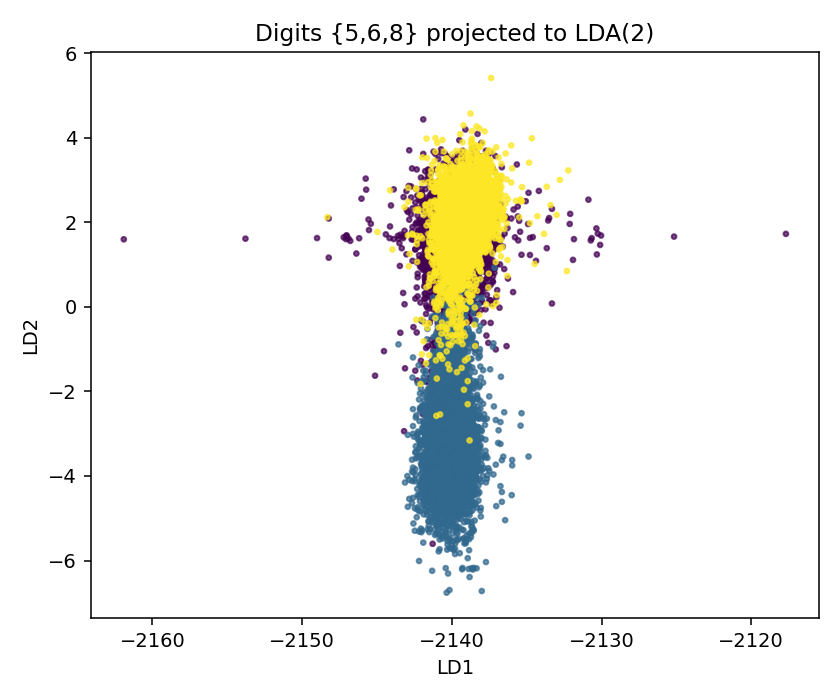
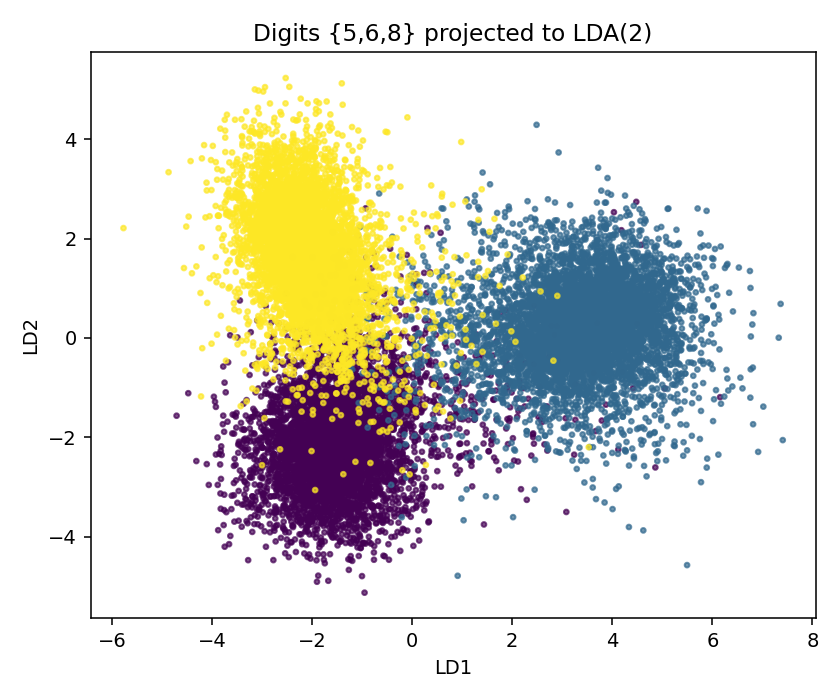
Update Fixed so it only takes three classes.

diff --git a/Machine Learning Exercise 3/Exercises1_1.py b/Machine Learning Exercise 3/Exercises1_1.py
@@ -1,0 +1,264 @@
+# Exercises.py
+# End-to-end MNIST dimensionality-reduction + classification
+# Works with the classic UFLDL "mnist_all.mat" that contains train0..train9 and test0..test9
+
+import os
+import numpy as np
+from scipy.io import loadmat
+from sklearn.decomposition import PCA
+from sklearn.preprocessing import StandardScaler
+from sklearn.neighbors import KNeighborsClassifier
+from sklearn.linear_model import LogisticRegression
+from sklearn.metrics import accuracy_score, confusion_matrix, classification_report
+from sklearn.discriminant_analysis import LinearDiscriminantAnalysis
+import matplotlib.pyplot as plt
+import warnings
+
+warnings.filterwarnings("ignore", category=FutureWarning, module="sklearn")
+
+# =========================
+# 0) CONFIG
+# =========================
+DATA_DIR = r"C:\Users\walat\PycharmProjects\PythonProject\Machine Learning Exercise 3\Data\mnist_all"
+MAT_FILE = "mnist_all.mat"  # expected inside DATA_DIR
+SEED = 42
+PCA_VAR_TARGETS = [0.90, 0.95, 0.99]  # report how many PCs needed for each
+PCA_FOR_VIS = 2                       # for quick scatter visualization
+THREE_CLASSES = {5, 6, 8}             # for the LDA vs PCA(2) task
+
+rng = np.random.default_rng(SEED)
+
+# =========================
+# 1) LOAD DATA
+# =========================
+def load_mnist_all_mat(path_dir, mat_file="mnist_all.mat"):
+    mat = loadmat(os.path.join(path_dir, mat_file))
+    # mat keys: train0..train9, test0..test9 (each: N x 784 uint8)
+    Xtr_list, ytr_list, Xte_list, yte_list = [], [], [], []
+    for d in range(10):
+        Xtr = mat[f"train{d}"]
+        Xte = mat[f"test{d}"]
+        ytr = np.full((Xtr.shape[0],), d, dtype=int)
+        yte = np.full((Xte.shape[0],), d, dtype=int)
+        Xtr_list.append(Xtr); ytr_list.append(ytr)
+        Xte_list.append(Xte); yte_list.append(yte)
+    Xtr = np.vstack(Xtr_list).astype(np.float32) / 255.0
+    ytr = np.hstack(ytr_list).astype(int)
+    Xte = np.vstack(Xte_list).astype(np.float32) / 255.0
+    yte = np.hstack(yte_list).astype(int)
+    return Xtr, ytr, Xte, yte
+
+print("Loading MNIST (mnist_all.mat)...")
+Xtr, ytr, Xte, yte = load_mnist_all_mat(DATA_DIR, MAT_FILE)
+n_tr, d = Xtr.shape
+n_te = Xte.shape[0]
+print(f"Train: {Xtr.shape}, Test: {Xte.shape}")
+
+# =========================
+# 2) STANDARDIZE FEATURES (fit on train)
+# =========================
+scaler = StandardScaler(with_mean=True, with_std=True)
+Xtr_std = scaler.fit_transform(Xtr)
+Xte_std = scaler.transform(Xte)
+
+# =========================
+# 3) PCA FIT (on TRAIN only)
+# =========================
+print("\nFitting PCA on standardized train data...")
+pca_full = PCA(svd_solver="full", random_state=SEED)
+pca_full.fit(Xtr_std)
+
+explained = pca_full.explained_variance_ratio_
+cum_explained = np.cumsum(explained)
+
+def n_components_for_variance(target):
+    return int(np.searchsorted(cum_explained, target) + 1)
+
+print("Explained variance targets and component counts:")
+for v in PCA_VAR_TARGETS:
+    print(f"  {int(v*100)}% → {n_components_for_variance(v)} components")
+
+# Save scree/cumulative plots
+plt.figure()
+plt.plot(np.arange(1, len(explained)+1), explained)
+plt.xlabel("Component index")
+plt.ylabel("Explained variance ratio")
+plt.title("PCA Scree Plot (MNIST)")
+plt.tight_layout()
+plt.savefig("pca_scree.png", dpi=120)
+
+plt.figure()
+plt.plot(np.arange(1, len(cum_explained)+1), cum_explained)
+plt.axhline(0.90, ls="--"); plt.axhline(0.95, ls="--"); plt.axhline(0.99, ls="--")
+plt.xlabel("Components")
+plt.ylabel("Cumulative explained variance")
+plt.title("PCA Cumulative Explained Variance")
+plt.tight_layout()
+plt.savefig("pca_cumulative.png", dpi=120)
+print("Saved plots: pca_scree.png, pca_cumulative.png")
+
+# =========================
+# 4) PROJECT DATA TO PCA SPACES
+#    (a) 2D for visualization
+#    (b) K components to hit 95% variance
+# =========================
+pca_vis = PCA(n_components=PCA_FOR_VIS, svd_solver="full", random_state=SEED)
+Xtr_vis = pca_vis.fit_transform(Xtr_std)
+Xte_vis = pca_vis.transform(Xte_std)
+
+target_var = 0.95
+K = n_components_for_variance(target_var)
+pca_k = PCA(n_components=K, svd_solver="full", random_state=SEED)
+Xtr_pca = pca_k.fit_transform(Xtr_std)
+Xte_pca = pca_k.transform(Xte_std)
+print(f"\nUsing K={K} PCs to retain ~{int(target_var*100)}% variance")
+
+# Optional: tiny scatter of a subset (2D PCA) for sanity
+idx = rng.choice(len(ytr), size=4000, replace=False)
+plt.figure(figsize=(6,5))
+plt.scatter(Xtr_vis[idx, 0], Xtr_vis[idx, 1], c=ytr[idx], s=5, alpha=0.6)
+plt.title("Train set projected to first 2 PCs")
+plt.xlabel("PC1"); plt.ylabel("PC2")
+plt.tight_layout()
+plt.savefig("pca_train_scatter_2d.png", dpi=140)
+print("Saved plot: pca_train_scatter_2d.png")
+
+# =========================
+# 5) CLASSIFIERS IN REDUCED SPACE (10 classes)
+# =========================
+def run_knn(train_X, train_y, test_X, test_y, k=3):
+    knn = KNeighborsClassifier(n_neighbors=k, weights="distance", n_jobs=-1)
+    knn.fit(train_X, train_y)
+    yhat = knn.predict(test_X)
+    acc = accuracy_score(test_y, yhat)
+    return acc, yhat
+
+def run_logreg(train_X, train_y, test_X, test_y, C=1.0):
+    clf = LogisticRegression(
+        penalty="l2",
+        C=C,
+        solver="lbfgs",
+        max_iter=1000,
+        tol=1e-3,
+        random_state=SEED,
+        n_jobs=-1
+    )
+    clf.fit(train_X, train_y)
+    yhat = clf.predict(test_X)
+    acc = accuracy_score(test_y, yhat)
+    return acc, yhat
+
+print("\n=== Classification in PCA(K) space (10 classes) ===")
+acc_knn_pca, yhat_knn_pca = run_knn(Xtr_pca, ytr, Xte_pca, yte, k=3)
+print(f"k-NN (k=3) on PCA({K}) → accuracy: {acc_knn_pca*100:.2f}%")
+
+acc_lr_pca, yhat_lr_pca = run_logreg(Xtr_pca, ytr, Xte_pca, yte, C=1.0)
+print(f"Logistic Regression on PCA({K}) → accuracy: {acc_lr_pca*100:.2f}%")
+
+print("\n=== Baseline (original standardized space, 10 classes) ===")
+acc_knn_base, _ = run_knn(Xtr_std, ytr, Xte_std, yte, k=3)
+print(f"k-NN (k=3) on original → accuracy: {acc_knn_base*100:.2f}%")
+acc_lr_base, _ = run_logreg(Xtr_std, ytr, Xte_std, yte, C=1.0)
+print(f"Logistic Regression on original → accuracy: {acc_lr_base*100:.2f}%")
+
+# Confusion matrix and report for the best PCA model (10 classes)
+best_name, best_yhat = ("kNN-PCA", yhat_knn_pca) if acc_knn_pca >= acc_lr_pca else ("LogReg-PCA", yhat_lr_pca)
+cm = confusion_matrix(yte, best_yhat)
+print(f"\nBest PCA-space model (10 classes): {best_name}")
+print("Confusion matrix (rows=true, cols=pred):")
+print(cm)
+print("\nClassification report:")
+print(classification_report(yte, best_yhat, digits=4))
+
+# =========================
+# 6) THREE-CLASS TASK (5, 6, 8): LDA(2) vs PCA(2)
+#     (1) Reduce to 2D using LDA and classify
+#     (2) Redo with PCA(2) and compare
+#     IMPORTANT: fit scaler on the 5/6/8 subset only
+# =========================
+print("\n=== Three-class experiment: digits {5,6,8} ===")
+
+# 1) Subset RAW data first (not the already-standardized arrays)
+mask_tr_raw = np.isin(ytr, [5, 6, 8])
+mask_te_raw = np.isin(yte, [5, 6, 8])
+
+Xtr_568_raw, ytr_568 = Xtr[mask_tr_raw], ytr[mask_tr_raw]
+Xte_568_raw, yte_568 = Xte[mask_te_raw], yte[mask_te_raw]
+
+# 2) Fit a NEW scaler on the subset train only
+scaler_568 = StandardScaler(with_mean=True, with_std=True)
+Xtr_568 = scaler_568.fit_transform(Xtr_568_raw)
+Xte_568 = scaler_568.transform(Xte_568_raw)
+
+# --- LDA as a CLASSIFIER (this is the one that should hit ~94%) ---
+lda_clf = LinearDiscriminantAnalysis(solver="svd")  # classifier; no n_components needed
+lda_clf.fit(Xtr_568, ytr_568)
+acc_lda_clf = lda_clf.score(Xte_568, yte_568)
+print(f"LDA classifier (5/6/8) → accuracy: {acc_lda_clf*100:.2f}%")
+
+# --- LDA as 2D PROJECTION (for plotting + kNN/LogReg on 2D) ---
+lda2 = LinearDiscriminantAnalysis(solver="svd", n_components=2)
+Xtr_lda2 = lda2.fit_transform(Xtr_568, ytr_568)
+Xte_lda2 = lda2.transform(Xte_568)
+
+plt.figure(figsize=(6,5))
+plt.scatter(Xtr_lda2[:,0], Xtr_lda2[:,1], c=ytr_568, s=6, alpha=0.7)
+plt.title("Digits {5,6,8} projected to LDA(2)")
+plt.xlabel("LD1"); plt.ylabel("LD2")
+plt.tight_layout()
+plt.savefig("lda_568_scatter_2d.png", dpi=140)
+print("Saved plot: lda_568_scatter_2d.png")
+
+# Classify in LDA(2) space
+acc_knn_lda2, _ = run_knn(Xtr_lda2, ytr_568, Xte_lda2, yte_568, k=3)
+acc_lr_lda2,  _ = run_logreg(Xtr_lda2, ytr_568, Xte_lda2, yte_568, C=1.0)
+print(f"k-NN on LDA(2) → accuracy: {acc_knn_lda2*100:.2f}%")
+print(f"LogReg on LDA(2) → accuracy: {acc_lr_lda2*100:.2f}%")
+
+# --- PCA(2) comparator on the SAME subset + scaler ---
+pca2 = PCA(n_components=2, svd_solver="full", random_state=SEED)
+Xtr_pca2 = pca2.fit_transform(Xtr_568)
+Xte_pca2 = pca2.transform(Xte_568)
+
+plt.figure(figsize=(6,5))
+plt.scatter(Xtr_pca2[:,0], Xtr_pca2[:,1], c=ytr_568, s=6, alpha=0.7)
+plt.title("Digits {5,6,8} projected to PCA(2)")
+plt.xlabel("PC1"); plt.ylabel("PC2")
+plt.tight_layout()
+plt.savefig("pca_568_scatter_2d.png", dpi=140)
+print("Saved plot: pca_568_scatter_2d.png")
+
+acc_knn_pca2, _ = run_knn(Xtr_pca2, ytr_568, Xte_pca2, yte_568, k=3)
+acc_lr_pca2,  _ = run_logreg(Xtr_pca2, ytr_568, Xte_pca2, yte_568, C=1.0)
+print(f"k-NN on PCA(2) → accuracy: {acc_knn_pca2*100:.2f}%")
+print(f"LogReg on PCA(2) → accuracy: {acc_lr_pca2*100:.2f}%")
+
+# Summary for the 3-class task
+print("\n============ SUMMARY (three classes: 5,6,8) ============ ")
+print(f"LDA classifier (no dim reduction step in pipeline): {acc_lda_clf*100:.2f}%")
+print(f"k-NN  on LDA(2): {acc_knn_lda2*100:.2f}%")
+print(f"LogReg on LDA(2): {acc_lr_lda2*100:.2f}%")
+print(f"k-NN  on PCA(2): {acc_knn_pca2*100:.2f}%")
+print(f"LogReg on PCA(2): {acc_lr_pca2*100:.2f}%")
+print("Saved figures: lda_568_scatter_2d.png, pca_568_scatter_2d.png")
+
+
+# =========================
+# 7) QUICK SUMMARY
+# =========================
+print("\n================ SUMMARY (10 classes) ================ ")
+for v in PCA_VAR_TARGETS:
+    print(f"PCs to reach {int(v*100)}% variance: {n_components_for_variance(v)}")
+print(f"Using K={K} PCs for evaluation")
+print(f"k-NN  (orig) : {acc_knn_base*100:.2f}%")
+print(f"LogReg (orig): {acc_lr_base*100:.2f}%")
+print(f"k-NN  PCA({K}): {acc_knn_pca*100:.2f}%")
+print(f"LogReg PCA({K}): {acc_lr_pca*100:.2f}%")
+print("Saved figures: pca_scree.png, pca_cumulative.png, pca_train_scatter_2d.png")
+
+print("\n============ SUMMARY (three classes: 5,6,8) ============ ")
+print(f"k-NN  on LDA(2): {acc_knn_lda2*100:.2f}%")
+print(f"LogReg on LDA(2): {acc_lr_lda2*100:.2f}%")
+print(f"k-NN  on PCA(2): {acc_knn_pca2*100:.2f}%")
+print(f"LogReg on PCA(2): {acc_lr_pca2*100:.2f}%")
+print("Saved figures: lda_568_scatter_2d.png, pca_568_scatter_2d.png")
